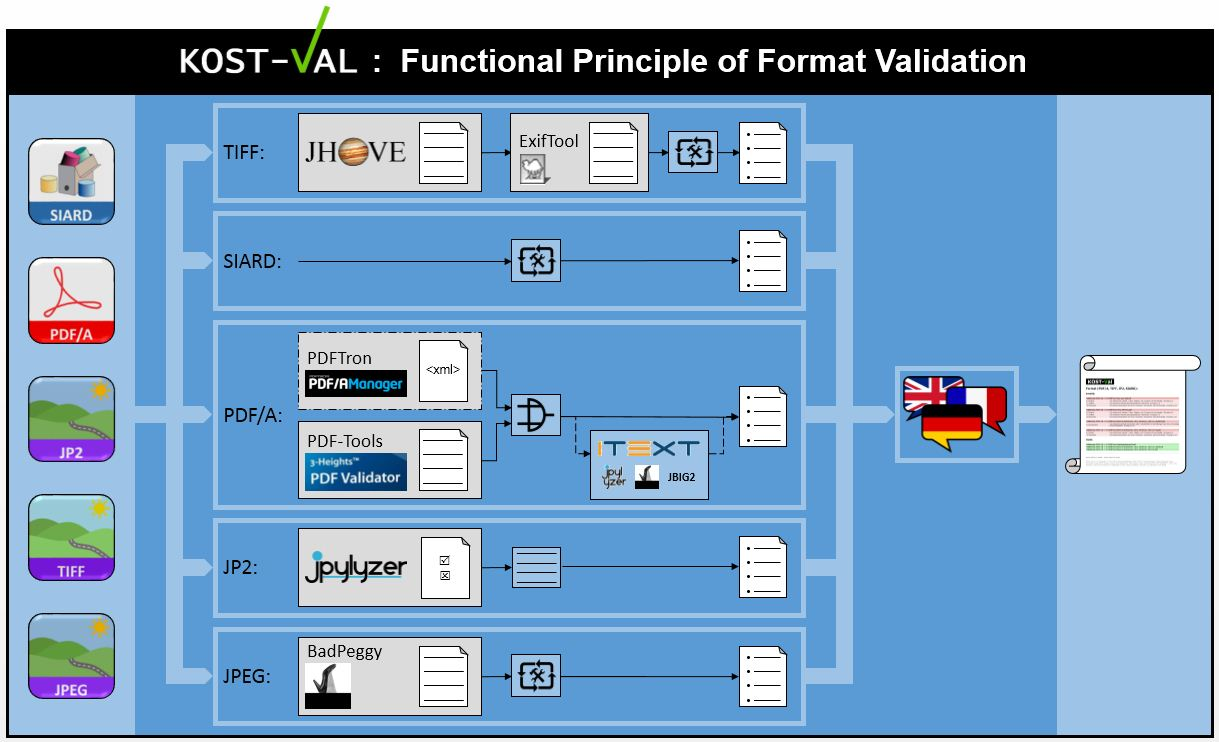
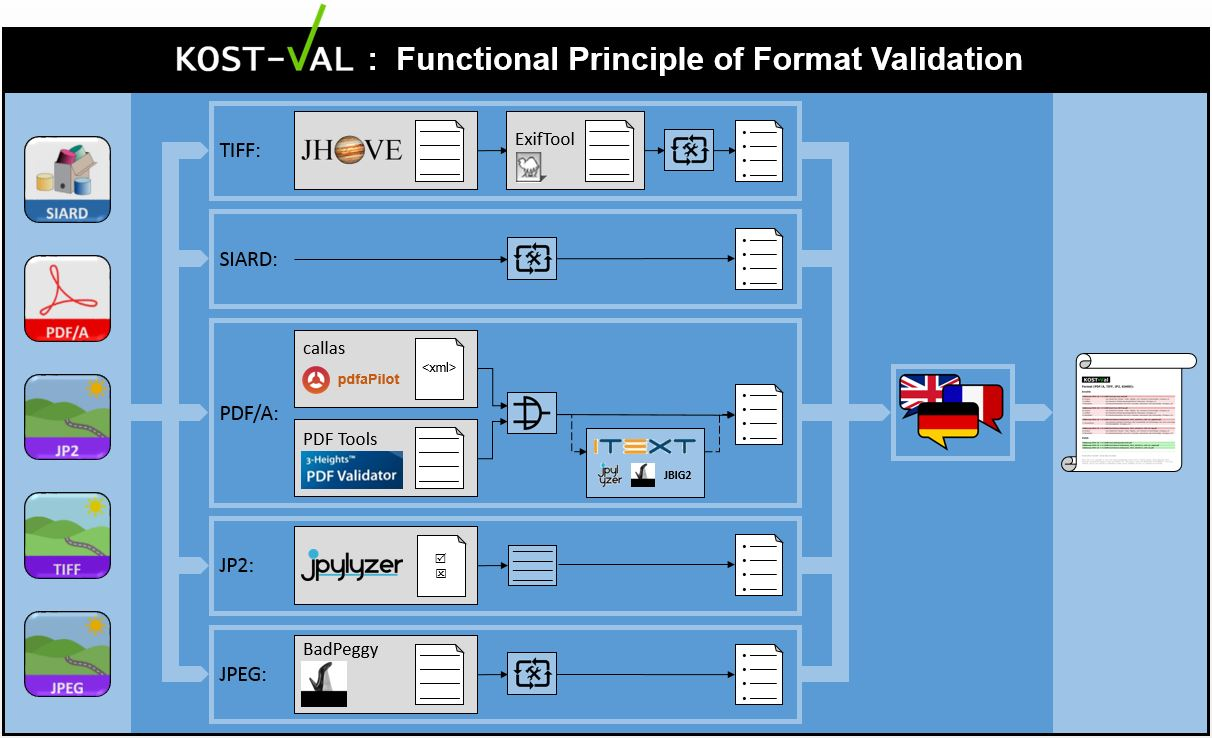
Vorbereitung KOST-Val v1.8.2 [6] ================================  - Allemeine kleinere Korrekturen  - callas anstelle PDFTron:    * N-Eintrag konfigurierbar (Warnung / Fehler)    * Aktualisierung Funktionsprinzip
TODO:
 - callas anstelle PDFTron:
   * weitere Bereinigung der callas-Dateien in resource
   * Fehlermeldung den Modulen zuweisen (Rest)
 - Handbuch aktualisieren
   * 1    Vorwort: aktualisieren
   * 5.2  Optionale Installation von Drittapplikationen: entfällt
ersatzlos
   * 6    Konfiguration des KOST-Val
   * 11   Urheberrecht
          -> Tabelle: Drittprogramm / -Komponente: mit pdfaPilot
erweitern
          -> Mit ihrer Lizenz analog PDF Tools erweitern
   * 12.3 Funktionsprinzip Formatvalidierung: PDFTron durch callas
ersetzten aber nicht strichpunkt (optional) sondern wie PDF Tools
durchgezogen
   * Allg Bilder aktualisieren

diff --git a/KOST-Val/src/main/java/ch/kostceco/tools/kostval/validation/modulepdfa/impl/ValidationAvalidationAiModuleImpl.java b/KOST-Val/src/main/java/ch/kostceco/tools/kostval/validation/modulepdfa/impl/ValidationAvalidationAiModuleImpl.java
@@ -325,6 +325,7 @@ public class ValidationAvalidationAiModuleImpl extends ValidationModuleImpl impl
 		boolean isValid = false;
 		boolean callas = false;
 		boolean pdftools = false;
+		int callasReturnCode = 9;
 
 		String callasConfig = getConfigurationService().callas();
 		String pdftoolsConfig = getConfigurationService().pdftools();
@@ -460,6 +461,15 @@ public class ValidationAvalidationAiModuleImpl extends ValidationModuleImpl impl
 			if ( callas && !isValid ) {
 				// Validierung mit callas
 
+				/* Nicht vergessen in "src/main/resources/config/applicationContext-services.xml" beim
+				 * entsprechenden Modul die property anzugeben: <property name="configurationService"
+				 * ref="configurationService" /> */
+				String nEntry = getConfigurationService().nentry();
+				boolean bNentryError = true;
+				if ( nEntry.equalsIgnoreCase( "W" ) ) {
+					bNentryError = false;
+				}
+
 				try {
 					// Initialisierung callas -> existiert pdfaPilot in den resources?
 					/* dirOfJarPath damit auch absolute Pfade kein Problem sind Dies ist ein generelles TODO
@@ -502,8 +512,6 @@ public class ValidationAvalidationAiModuleImpl extends ValidationModuleImpl impl
 					if ( callas ) {
 						String pdfapilotExe = fpdfapilotExe.getAbsolutePath();
 
-						// TODO N-Entry überprüfen
-
 						/* Aufbau command:
 						 * 
 						 * 1) pdfapilotExe: Pfad zum Programm pdfapilot
@@ -516,14 +524,57 @@ public class ValidationAvalidationAiModuleImpl extends ValidationModuleImpl impl
 						 * 
 						 * 5) reportPath: Pfad zum Report */
 
-						String analye = "-a --noprogress --nohits --level=" + level
-								+ " --profile=resources\\callas_pdfaPilotServer_Win_7.0.268_cli-a\\N-Entry.kfpx";
+						String profile = dirOfJarPath + File.separator + "resources" + File.separator
+								+ "callas_pdfaPilotServer_Win_7.0.268_cli-a" + File.separator + "N-Entry.kfpx";
+						String analye = "-a --noprogress --nohits --level=" + level + " --profile=" + profile;
+						String langConfig = getTextResourceService().getText( MESSAGE_XML_LANGUAGE );
 						String lang = "-l=" + getTextResourceService().getText( MESSAGE_XML_LANGUAGE );
 						String valPath = valDatei.getAbsolutePath();
 						String reportPath = report.getAbsolutePath();
 
 						/* callas separat ausführen und Ergebnis in isValid zurückgeben */
-						isValid = UtilCallas.execCallas( pdfapilotExe, analye, lang, valPath, reportPath );
+						callasReturnCode = UtilCallas.execCallas( pdfapilotExe, analye, lang, valPath,
+								reportPath );
+
+						if ( callasReturnCode == 0 ) {
+							/* 0 PDF is valid PDF/A-file additional checks wihtout problems
+							 * 
+							 * 1 PDF is valid PDF/A-file but additional checks with problems – severity info
+							 * 
+							 * 2 PDF is valid PDF/A-file but additional checks with problems – severity warning
+							 * 
+							 * 3 PDF is valid PDF/A-file but additional checks with problems – severity error -->
+							 * N-Eintrag
+							 * 
+							 * 4 PDF is not a valid PDF/A-file */
+							isValid = true;
+						} else if ( callasReturnCode > 3 ) {
+							isValid = false;
+						} else {
+							// Zusatzprüfung nicht bestanden
+
+							if ( bNentryError ) {
+								// Zusatzprüfung nicht bestanden = Error
+								isValid = false;
+							} else {
+								/* Zusatzprüfung nicht bestanden = Warnung aber valide
+								 * 
+								 * Warnung jetzt ausgeben */
+								String warning = "";
+								isValid = true;
+								if ( langConfig.equalsIgnoreCase( "de" ) ) {
+									warning = "Warnung: Komponentenanzahl im N-Eintrag des PDF/A Output Intent stimmt nicht mit ICC-Profil ueberein. [callas] ";
+								} else if ( langConfig.equalsIgnoreCase( "fr" ) ) {
+									warning = "Avertissement: Le nombre de composants dans l'entree N des conditions de sortie PDF/A ne correspond pas au profil ICC. [callas] ";
+								} else {
+									warning = "Warning: Number of components in PDF/A OutputIntent N entry does not match ICC profile. [callas] ";
+								}
+								getMessageService().logError(
+										getTextResourceService().getText( MESSAGE_XML_MODUL_C_PDFA ) + "<Message>"
+												+ warning + "</Message></Error>" );
+							}
+						}
+
 						// Ende callas direkt auszulösen
 					}
 				} catch ( Exception e ) {
@@ -715,13 +766,13 @@ public class ValidationAvalidationAiModuleImpl extends ValidationModuleImpl impl
 										|| line
 												.contains( "Number of components in PDF/A OutputIntent N entry does not match ICC profile" ) ) {
 									// als zusatz im Log kennzeichnen
-									line = line + " [callas addition] ";
+									line = line + " [callas] ";
 								} else if ( line.contains( "Le nombre de composants dans l'entree" )
 										&& line
 												.contains( "N des conditions de sortie PDF/A ne correspond pas au profil ICC" ) ) {
 									// als zusatz im Log kennzeichnen
 									// enthält " l'entreeÂ N " entsprechend alles neu...
-									line = "Le nombre de composants dans l'entree N des conditions de sortie PDF/A ne correspond pas au profil ICC [callas addition] ";
+									line = "Le nombre de composants dans l'entree N des conditions de sortie PDF/A ne correspond pas au profil ICC [callas] ";
 								} else {
 									line = line + " [callas] ";
 								}

diff --git a/KOST-Val/src/main/java/ch/kostceco/tools/kostval/service/impl/ConfigurationServiceImpl.java b/KOST-Val/src/main/java/ch/kostceco/tools/kostval/service/impl/ConfigurationServiceImpl.java
@@ -142,6 +142,19 @@ public class ConfigurationServiceImpl implements ConfigurationService
 
 	/*--- PDF/A ---------------------------------------------------------------------*/
 	@Override
+	public String pdftools()
+	{
+		Object prop = getConfig().getProperty( "pdfa.pdftools" );
+
+		if ( prop instanceof String ) {
+			String value = (String) prop;
+			return value;
+		}
+		String error = "Configuration-Error: Missing pdfa.pdftools";
+		return error;
+	}
+
+	@Override
 	public String callas()
 	{
 		Object prop = getConfig().getProperty( "pdfa.callas" );
@@ -155,15 +168,15 @@ public class ConfigurationServiceImpl implements ConfigurationService
 	}
 
 	@Override
-	public String pdftools()
+	public String nentry()
 	{
-		Object prop = getConfig().getProperty( "pdfa.pdftools" );
+		Object prop = getConfig().getProperty( "pdfa.nentry" );
 
 		if ( prop instanceof String ) {
 			String value = (String) prop;
 			return value;
 		}
-		String error = "Configuration-Error: Missing pdfa.pdftools";
+		String error = "Configuration-Error: Missing pdfa.nentry";
 		return error;
 	}
 

diff --git a/KOST-Val/src/main/java/ch/kostceco/tools/kostval/service/ConfigurationService.java b/KOST-Val/src/main/java/ch/kostceco/tools/kostval/service/ConfigurationService.java
@@ -129,15 +129,20 @@ public interface ConfigurationService extends Service
 	 * Tabellen und Module validiert werden können. */
 	int getTableRowsLimit();
 
+	/** Gibt an ob pdfa mit PDF Tools validiert werden soll
+	 * 
+	 * @return yes oder no */
+	String pdftools();
+
 	/** Gibt an ob pdfa mit callas validiert werden soll
 	 * 
 	 * @return yes oder no */
 	String callas();
 
-	/** Gibt an ob pdfa mit PDF Tools validiert werden soll
+	/** N-Eintrag: Soll seitens callas ein Fehler (E) oder eine Warnung (W) ausgegeben werden
 	 * 
-	 * @return yes oder no */
-	String pdftools();
+	 * @return W oder E */
+	String nentry();
 
 	/** Gibt an welche Konformität mindestens erreicht werden muss
 	 * 
